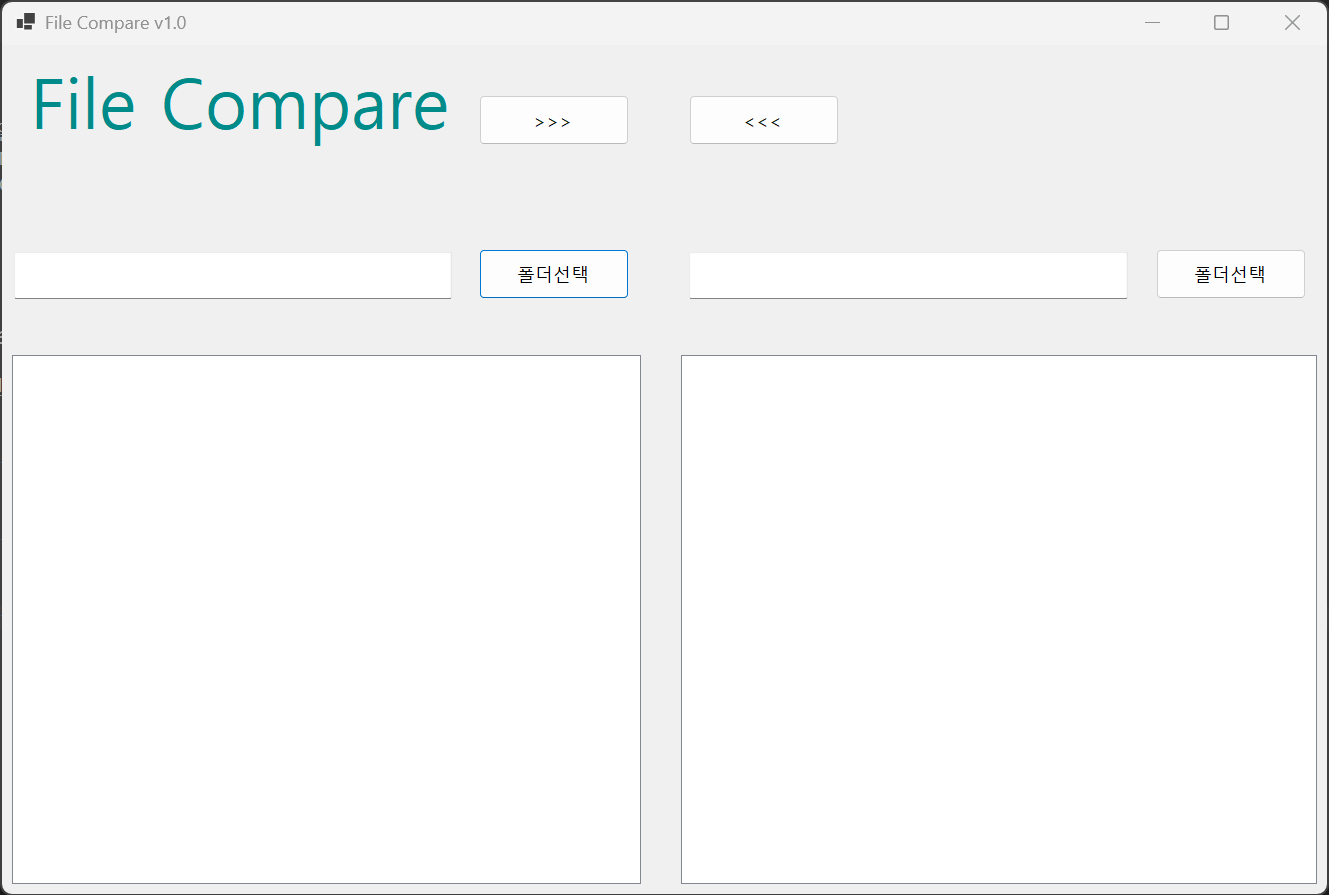
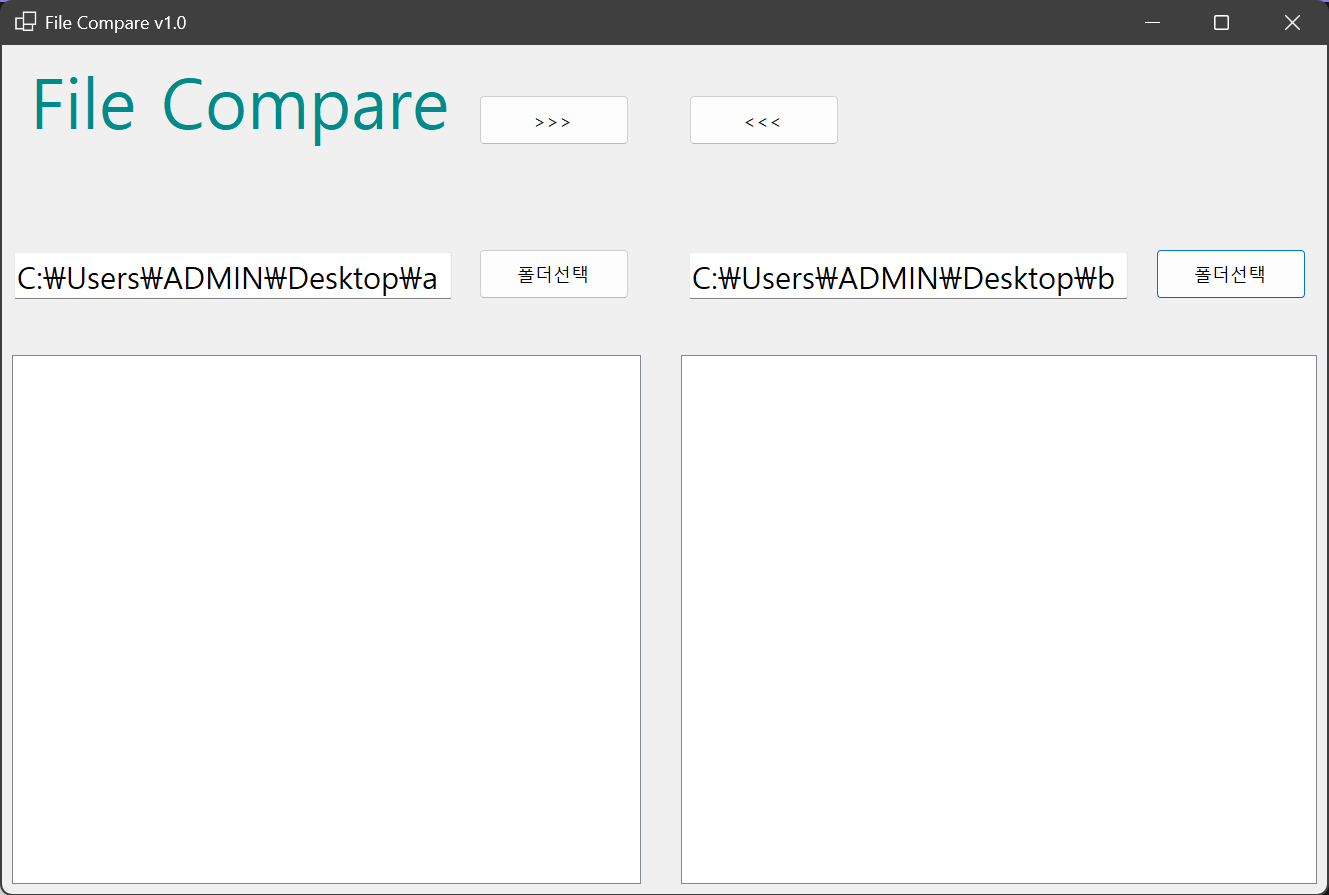
과제2 코딩과 테스트 완료 - FolderBrowserDialog를 사용하여 양쪽 폴더를 선택하고 경로를 텍스트박스에 표시하는 기능 구현 - Directory.EnumerateFiles 및 EnumerateDirectories를 이용해 파일/폴더 목록을 ListView에 출력 - 양쪽 폴더의 파일을 비교하여 최신(빨강), 이전(회색), 단독(보라) 상태를 색상으로 구분 - 파일 이름과 수정 날짜를 기준으로 한 비교 로직 적용 및 리스트뷰 자동 갱신 확인

diff --git a/Form1.Designer.cs b/Form1.Designer.cs
@@ -31,6 +31,9 @@
             splitContainer1 = new SplitContainer();
             panel3 = new Panel();
             lvwLeftDir = new ListView();
+            columnHeader1 = new ColumnHeader();
+            columnHeader2 = new ColumnHeader();
+            columnHeader3 = new ColumnHeader();
             panel2 = new Panel();
             btnLeftDir = new Button();
             txtLeftDir = new TextBox();
@@ -38,7 +41,10 @@
             btnCopyFromRight = new Button();
             lblAppName = new Label();
             panel6 = new Panel();
-            lvwrightDir = new ListView();
+            lvwRightDir = new ListView();
+            columnHeader4 = new ColumnHeader();
+            columnHeader5 = new ColumnHeader();
+            columnHeader6 = new ColumnHeader();
             panel5 = new Panel();
             btnRightDir = new Button();
             txtRightDir = new TextBox();
@@ -90,12 +96,31 @@
             // 
             // lvwLeftDir
             // 
+            lvwLeftDir.Columns.AddRange(new ColumnHeader[] { columnHeader1, columnHeader2, columnHeader3 });
             lvwLeftDir.Dock = DockStyle.Fill;
+            lvwLeftDir.FullRowSelect = true;
+            lvwLeftDir.GridLines = true;
             lvwLeftDir.Location = new Point(10, 10);
             lvwLeftDir.Name = "lvwLeftDir";
             lvwLeftDir.Size = new Size(629, 529);
             lvwLeftDir.TabIndex = 0;
             lvwLeftDir.UseCompatibleStateImageBehavior = false;
+            lvwLeftDir.View = View.Details;
+            // 
+            // columnHeader1
+            // 
+            columnHeader1.Text = "이름";
+            columnHeader1.Width = 300;
+            // 
+            // columnHeader2
+            // 
+            columnHeader2.Text = "크기";
+            columnHeader2.Width = 100;
+            // 
+            // columnHeader3
+            // 
+            columnHeader3.Text = "수정일";
+            columnHeader3.Width = 160;
             // 
             // panel2
             // 
@@ -109,7 +134,7 @@
             // 
             // btnLeftDir
             // 
-            btnLeftDir.Anchor = AnchorStyles.Bottom | AnchorStyles.Right;
+            btnLeftDir.Anchor = AnchorStyles.Right;
             btnLeftDir.Location = new Point(477, 54);
             btnLeftDir.Name = "btnLeftDir";
             btnLeftDir.Size = new Size(150, 50);
@@ -120,7 +145,7 @@
             // 
             // txtLeftDir
             // 
-            txtLeftDir.Anchor = AnchorStyles.Bottom | AnchorStyles.Left | AnchorStyles.Right;
+            txtLeftDir.Anchor = AnchorStyles.Top | AnchorStyles.Left | AnchorStyles.Right;
             txtLeftDir.Font = new Font("맑은 고딕", 15F);
             txtLeftDir.Location = new Point(12, 57);
             txtLeftDir.Name = "txtLeftDir";
@@ -161,7 +186,7 @@
             // 
             // panel6
             // 
-            panel6.Controls.Add(lvwrightDir);
+            panel6.Controls.Add(lvwRightDir);
             panel6.Dock = DockStyle.Fill;
             panel6.Location = new Point(0, 300);
             panel6.Name = "panel6";
@@ -169,14 +194,33 @@
             panel6.Size = new Size(656, 549);
             panel6.TabIndex = 2;
             // 
-            // lvwrightDir
+            // lvwRightDir
             // 
-            lvwrightDir.Dock = DockStyle.Fill;
-            lvwrightDir.Location = new Point(10, 10);
-            lvwrightDir.Name = "lvwrightDir";
-            lvwrightDir.Size = new Size(636, 529);
-            lvwrightDir.TabIndex = 0;
-            lvwrightDir.UseCompatibleStateImageBehavior = false;
+            lvwRightDir.Columns.AddRange(new ColumnHeader[] { columnHeader4, columnHeader5, columnHeader6 });
+            lvwRightDir.Dock = DockStyle.Fill;
+            lvwRightDir.FullRowSelect = true;
+            lvwRightDir.GridLines = true;
+            lvwRightDir.Location = new Point(10, 10);
+            lvwRightDir.Name = "lvwRightDir";
+            lvwRightDir.Size = new Size(636, 529);
+            lvwRightDir.TabIndex = 0;
+            lvwRightDir.UseCompatibleStateImageBehavior = false;
+            lvwRightDir.View = View.Details;
+            // 
+            // columnHeader4
+            // 
+            columnHeader4.Text = "이름";
+            columnHeader4.Width = 300;
+            // 
+            // columnHeader5
+            // 
+            columnHeader5.Text = "크기";
+            columnHeader5.Width = 100;
+            // 
+            // columnHeader6
+            // 
+            columnHeader6.Text = "수정일";
+            columnHeader6.Width = 160;
             // 
             // panel5
             // 
@@ -190,7 +234,7 @@
             // 
             // btnRightDir
             // 
-            btnRightDir.Anchor = AnchorStyles.Bottom | AnchorStyles.Right;
+            btnRightDir.Anchor = AnchorStyles.Right;
             btnRightDir.Location = new Point(485, 54);
             btnRightDir.Name = "btnRightDir";
             btnRightDir.Size = new Size(150, 50);
@@ -201,7 +245,7 @@
             // 
             // txtRightDir
             // 
-            txtRightDir.Anchor = AnchorStyles.Bottom | AnchorStyles.Left | AnchorStyles.Right;
+            txtRightDir.Anchor = AnchorStyles.Top | AnchorStyles.Left | AnchorStyles.Right;
             txtRightDir.Font = new Font("맑은 고딕", 15F);
             txtRightDir.Location = new Point(18, 57);
             txtRightDir.Name = "txtRightDir";
@@ -269,6 +313,12 @@
         private Button btnRightDir;
         private Button btnCopyFromLeft;
         private ListView lvwLeftDir;
-        private ListView lvwrightDir;
+        private ListView lvwRightDir;
+        private ColumnHeader columnHeader1;
+        private ColumnHeader columnHeader2;
+        private ColumnHeader columnHeader3;
+        private ColumnHeader columnHeader4;
+        private ColumnHeader columnHeader5;
+        private ColumnHeader columnHeader6;
     }
 }

diff --git a/Form1.cs b/Form1.cs
@@ -21,6 +21,8 @@ namespace FileCompare
                 if (dlg.ShowDialog() == DialogResult.OK)
                 {
                     txtLeftDir.Text = dlg.SelectedPath;
+                    PopulateListView(lvwLeftDir, dlg.SelectedPath);
+                    CompareAndColorize();
                 }
 
             }
@@ -40,6 +42,8 @@ namespace FileCompare
                 if (dlg.ShowDialog() == DialogResult.OK)
                 {
                     txtRightDir.Text = dlg.SelectedPath;
+                    PopulateListView(lvwRightDir, dlg.SelectedPath);
+                    CompareAndColorize();
                 }
 
             }
@@ -53,6 +57,91 @@ namespace FileCompare
         private void btnCopyFromLeft_Click(object sender, EventArgs e)
         {
 
+        }
+
+        private void PopulateListView(ListView lv, string folderPath)
+        {
+            lv.BeginUpdate();
+            lv.Items.Clear();
+            try
+            {
+                var dirs = Directory.EnumerateDirectories(folderPath)
+                            .Select(p => new DirectoryInfo(p))
+                            .OrderBy(d => d.Name);
+                foreach (var d in dirs)
+                {
+                    var item = new ListViewItem(d.Name);
+                    item.SubItems.Add("<DIR>");
+                    item.SubItems.Add(d.LastWriteTime.ToString("g"));
+                    lv.Items.Add(item);
+                }
+                var files = Directory.EnumerateFiles(folderPath)
+                            .Select(p => new FileInfo(p))
+                            .OrderBy(f => f.Name);
+                foreach (var f in files)
+                {
+                    var item = new ListViewItem(f.Name);
+                    item.SubItems.Add(f.Length.ToString("N0") + " 바이트");
+                    item.SubItems.Add(f.LastWriteTime.ToString("g"));
+                    lv.Items.Add(item);
+                }
+                for (int i = 0; i < lv.Columns.Count; i++)
+                {
+                    lv.AutoResizeColumn(i, ColumnHeaderAutoResizeStyle.ColumnContent);
+                }
+            }
+            catch (DirectoryNotFoundException)
+            {
+                MessageBox.Show(this, "폴더를 찾을 수 없습니다.", "오류", MessageBoxButtons.OK, MessageBoxIcon.Error);
+            }
+            catch (IOException ex)
+            {
+                MessageBox.Show(this, "입출력 오류: " + ex.Message, "오류", MessageBoxButtons.OK, MessageBoxIcon.Error);
+            }
+            finally
+            {
+                lv.EndUpdate();
+            }
+        }
+
+        private void CompareAndColorize()
+        {
+            var leftItems = lvwLeftDir.Items.Cast<ListViewItem>().ToDictionary(i => i.Text);
+            var rightItems = lvwRightDir.Items.Cast<ListViewItem>().ToDictionary(i => i.Text);
+
+            foreach (ListViewItem lItem in lvwLeftDir.Items)
+            {
+                if (rightItems.TryGetValue(lItem.Text, out ListViewItem rItem))
+                {
+                    DateTime lTime = DateTime.Parse(lItem.SubItems[2].Text);
+                    DateTime rTime = DateTime.Parse(rItem.SubItems[2].Text);
+
+                    if (lTime > rTime) lItem.ForeColor = Color.Red;
+                    else if (lTime < rTime) lItem.ForeColor = Color.Gray;
+                    else lItem.ForeColor = Color.Black;
+                }
+                else
+                {
+                    lItem.ForeColor = Color.Purple;
+                }
+            }
+
+            foreach (ListViewItem rItem in lvwRightDir.Items)
+            {
+                if (leftItems.TryGetValue(rItem.Text, out ListViewItem lItem))
+                {
+                    DateTime rTime = DateTime.Parse(rItem.SubItems[2].Text);
+                    DateTime lTime = DateTime.Parse(lItem.SubItems[2].Text);
+
+                    if (rTime > lTime) rItem.ForeColor = Color.Red;
+                    else if (rTime < lTime) rItem.ForeColor = Color.Gray;
+                    else rItem.ForeColor = Color.Black;
+                }
+                else
+                {
+                    rItem.ForeColor = Color.Purple;
+                }
+            }
         }
     }
 }

diff --git a/README.md b/README.md
@@ -14,7 +14,13 @@
     - 각 컨트롤에 고유 변수명 부여 (btnLeftDir, lvwLeftDir 등)
 
 ## 실행 화면 (과제2)
-(과제 완료 후 스크린샷과 설명 추가 예정)
+- **구현 내용**: 폴더 선택 기능 및 파일 비교 결과 색상 표시
+- ![실행화면](img/screenshot-2.png)
+- **상세 내용**:
+    - FolderBrowserDialog를 통해 사용자가 원하는 경로를 선택하고 해당 경로를 텍스트박스에 출력
+    - ListView 상세 보기 모드에서 파일명, 크기, 마지막 수정 시간을 리스트업
+    - 파일 비교 로직: 양쪽 리스트의 파일명을 대조하여 최신 버전과 단독 존재 파일 판별
+    - 색상 가이드 적용: 최신 파일(Red), 오래된 파일(Gray), 단독 존재 파일(Purple)로 시각화
 
 ## 실행 화면 (과제3)
 (과제 완료 후 스크린샷과 설명 추가 예정)
